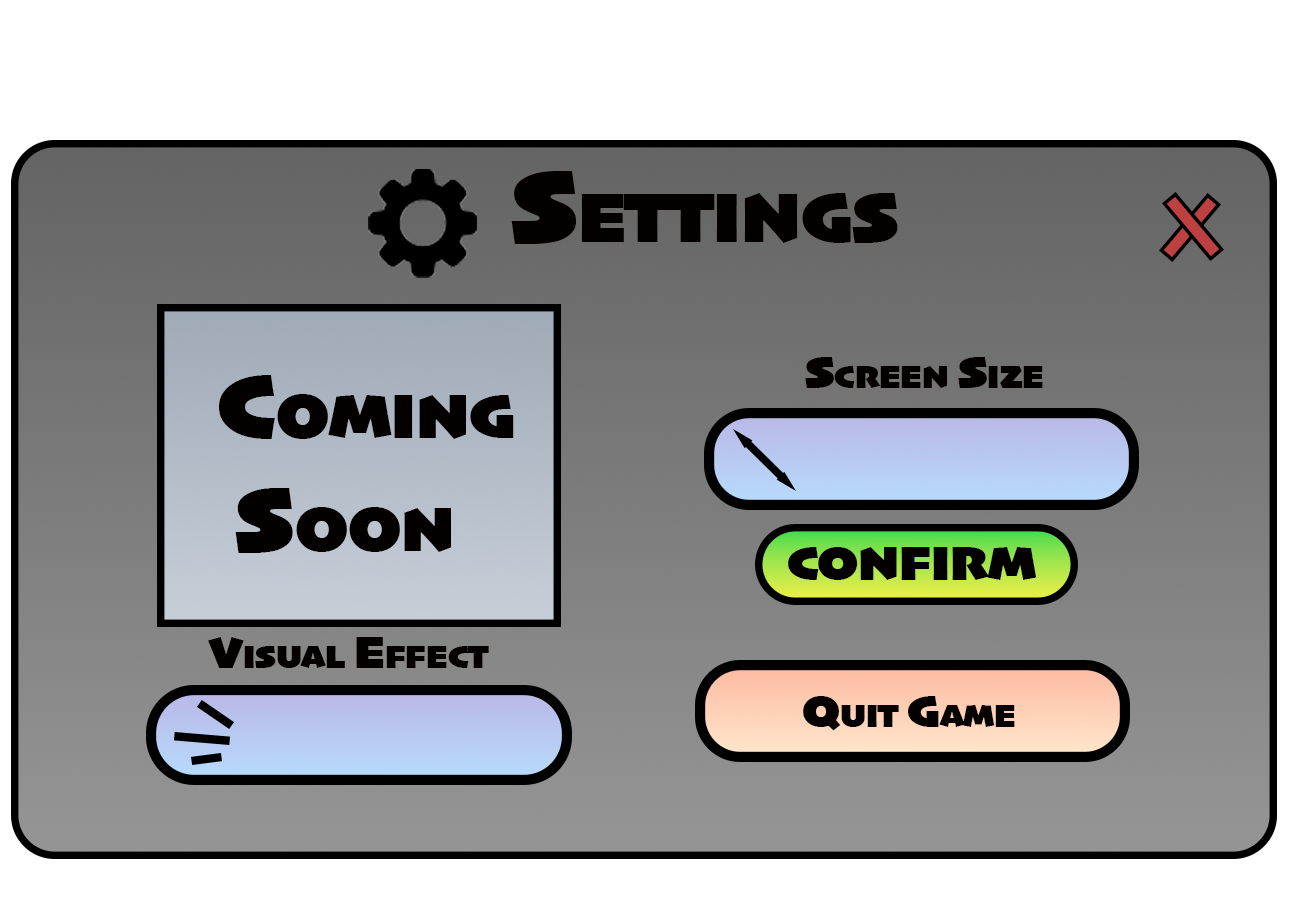
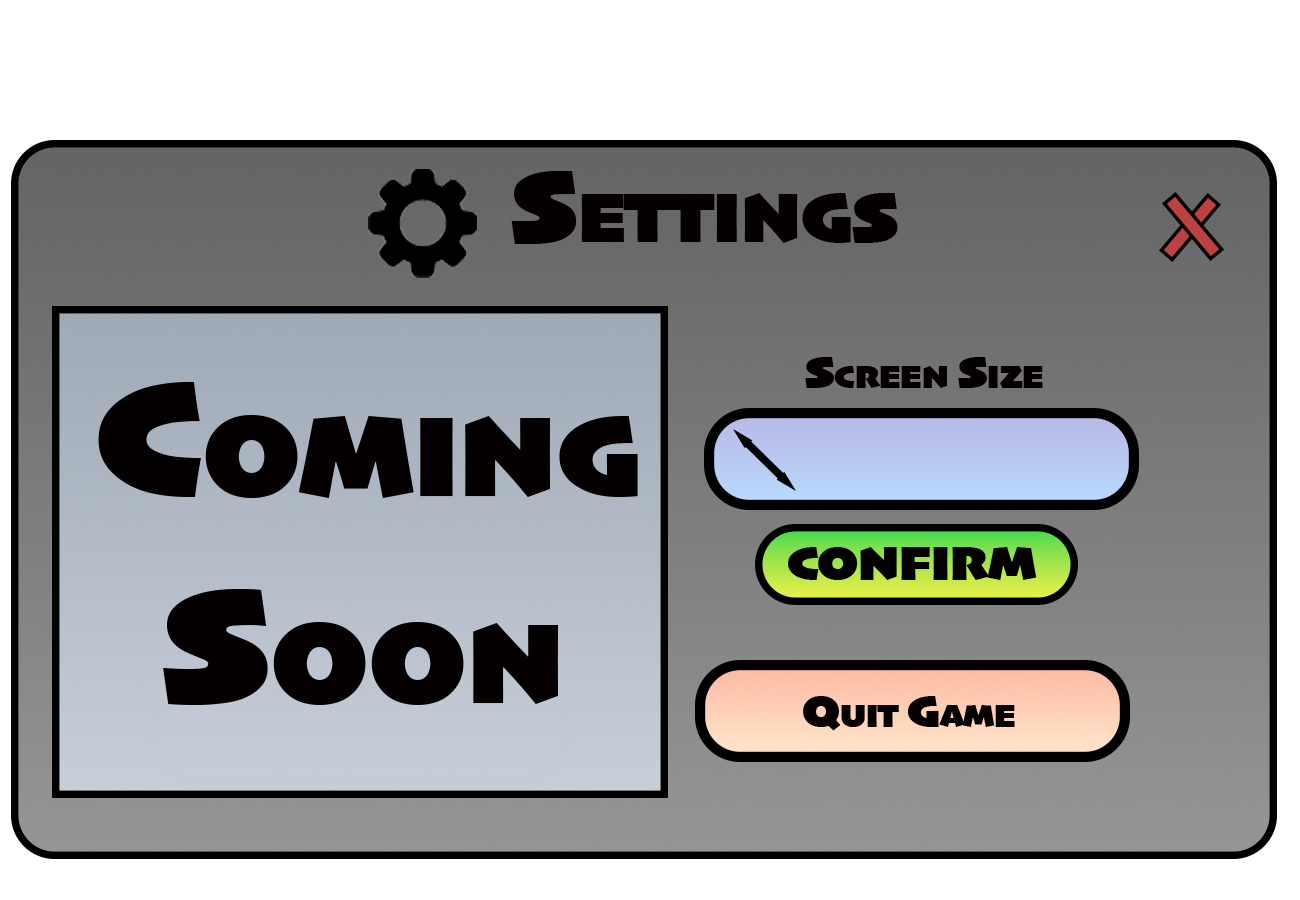
Fixed Rebirth Upgrade text missing Fixed the Clicks and Rebirths Upgrade menu to be more lined up

Changed region(s): [[0.0308, 0.3422, 0.5231, 0.9022]]

diff --git a/main.py b/main.py
@@ -206,7 +206,8 @@ CooldownLength = 0
 Tier_Click_Speed = 1
 last_time_check = 0
 dev_mult = 1.0
-ascension_Auto_Click_Speed = 0
+
+
 
 # V3.0
 current_ascension = 0
@@ -368,6 +369,7 @@ Shop_Menu_Button = pygame.image.load(os.path.join(img_dir, 'Button', "Shop_Butto
 Click_Button = pygame.image.load(os.path.join(img_dir, 'Click_Button', "Click_Button_clicked.png"))
 settings_Button = pygame.image.load(os.path.join(img_dir, 'Button', "Setting_Button.png"))
 ascension_Button = pygame.image.load(os.path.join(img_dir, 'Button', "Ascension_Button.png"))
+Shown_Menu = pygame.image.load(os.path.join(img_dir,'Menu',"Click_Upgrades.png"))
 
 click_amount = pygame.image.load(os.path.join(img_dir, 'Amount_Shown', "click_amount.png"))
 rebirth_amount = pygame.image.load(os.path.join(img_dir, 'Amount_Shown', "rebirth_amount.png"))
@@ -568,22 +570,19 @@ if len(sys.argv) > 2:
 #    Start Application
 ################################################################################
 while running:
-    # 1. Get raw physical mouse positions from the OS window
+##########################
+# For Debuger
+##########################
     physical_mouse_pos = pygame.mouse.get_pos()
-
-    # 2. Subtract offsets and divide by scale factor
     mouse_x = int((physical_mouse_pos[0] - offset_x) / scale)
     mouse_y = int((physical_mouse_pos[1] - offset_y) / scale)
-
-    # 3. FIXED: Strictly clamp the upper bounds to 1299 and 899 to avoid index crashes
     mouse_pos = (
         max(0, min(mouse_x, GAME_WIDTH - 1)),
         max(0, min(mouse_y, GAME_HEIGHT - 1))
     )
 
-    # 4. Your distance calculations will now run completely crash-free
     distance = math.hypot(mouse_pos[0] - Button_center[0], mouse_pos[1] - Button_center[1])
-
+##########################
     current_state = {
         "clicks": clicks,
         "rebirths": rebirths,
@@ -636,18 +635,27 @@ while running:
 ################################################################################
 #    Tier Upgrade Multiplers
 ################################################################################
-    if current_tier ==  1:          #    Tier Base Upgrades
+    if current_tier ==  0:          #    Tier Base Upgrades
         Tier_Xp = 1                 #    Xp Mult
-        Tier_Cm = 2  # x2           #    Clicks Multipler
+        Tier_Cm = 1                 #    Clicks Multipler
         Tier_Cp = 1                 #    CLicks Power
         Tier_Rm = 1                 #    Rebirth Mult
+        Auto_Click_Speed = 0
         Tier_Click_Speed = 1        #    Tier Click Speed Mult
+    if current_tier ==  1:
+        Tier_Xp = 1
+        Tier_Cm = 2  # x2
+        Tier_Cp = 1
+        Tier_Rm = 1
+        Auto_Click_Speed = 0
+        Tier_Click_Speed = 1
 
     if current_tier == 2:
         Tier_Xp = 1
         Tier_Cm = 4       #  x2
         Tier_Cp = 1
         Tier_Rm = 1.5     # x1.5
+        Auto_Click_Speed = 0
         Tier_Click_Speed = 1.5 # x1.5
 
     if current_tier ==  3:
@@ -833,10 +841,10 @@ while running:
 
     CM_Upgrades = (CU3Mult ** CU3) * (RU1Mult ** RU1)
     CM_Tiers = Tier_Cm * Click_Xp_Mult
-    CM_Sacrifices = Ascension_QOL_Clicks * Ascension_Click_Mult
+    CM_Ascension = Ascension_QOL_Clicks * Ascension_Click_Mult
     CM_Other = total_time_played_Click * Rebirth_x_clicks
 
-    Total_clicks_mult =  CM_Upgrades * CM_Tiers * CM_Sacrifices * CM_Other
+    Total_clicks_mult =  CM_Upgrades * CM_Tiers * CM_Ascension * CM_Other
     if Total_clicks_mult == 0:
         Total_clicks_mult = 1
     # ----------------
@@ -902,10 +910,10 @@ while running:
             RU1M = 20
             RU1Mult = 1.5
 
-    ################################################################################
-    ################################################################################
-    #    Pygame Mouse  collidepoint checker
-    ################################################################################
+################################################################################
+################################################################################
+#    Pygame Mouse  collidepoint checker
+#################################################################################
     for event in pygame.event.get():
         if event.type == pygame.VIDEORESIZE:
             if event.type == pygame.VIDEORESIZE:
@@ -954,11 +962,17 @@ while running:
                         os.execl(sys.executable, sys.executable, __file__, str(Menu), str(debugger_active))
                 elif event.key == pygame.K_i:
                     print ("[SYSTEM] Debug variable Checker:")
-                    print("Clicks: " + clicks)
-                    print("Rebirths: " + rebirths)
-                    print("Xp: " + Xp)
-                    print("Tokens: " + ascension_tokens)
-                    print("Menu: " + Menu)
+                    print("[SYSTEM] Currencies:")
+                    print("Clicks: " + str(clicks))
+                    print("Rebirths: " + str(rebirths))
+                    print("Xp: " + str(Xp))
+                    print("Tokens: " + str(ascension_tokens))
+                    print("Menu: " + str(Menu))
+                    print("[SYSTEM] Click Multiplers:")
+                    print("Upgrades: " + str(CM_Upgrades))
+                    print("Tier: " + str(CM_Tiers))
+                    print("Ascension: " + str(CM_Ascension))
+                    print("Other: " + str(CM_Other))
 
 
 
@@ -987,6 +1001,11 @@ while running:
                     if Menu == 0:
                         Menu = 52
 
+                if menu_ui_6.collidepoint(mouse_pos)  and Menu <= 9:
+                    if Menu == 6:
+                        Menu = 1
+                    elif Menu == 1:
+                        Menu = 6
                 if shop_menu.collidepoint(mouse_pos):
 
                     if Menu == 0:
@@ -1015,17 +1034,13 @@ while running:
                     current_tier += 1
 
 
-                if menu_ui_6.collidepoint(mouse_pos)  and Menu <= 9:
-                    if Menu == 6:
-                        Menu = 1
-                    if Menu == 1:
-                        Menu = 6
 
 
 
                 if menu_ui_7.collidepoint(mouse_pos) and Menu <= 9:
-                    if Menu == 1:
-                        Menu = 14
+                    if 9 <=Menu >= 1:
+                        if current_ascension >= 1:
+                            Menu = 14
 
 
 
@@ -1203,7 +1218,7 @@ while running:
         else:
             Click_Button = pygame.image.load(os.path.join(img_dir,'Click_Button',"Click_Button_clicked.png"))
 
-        if 1 >= Menu <= 10:
+        if Menu <= 10:
             menu_ui_1 = pygame.Rect(110, 340, 425, 55)
             menu_ui_2 = pygame.Rect(110, 560, 425, 55)
             menu_ui_3 = pygame.Rect(110, 780, 425, 55)
@@ -1218,7 +1233,7 @@ while running:
         if Menu in menu_base_1:
             menu_ui_1 = pygame.Rect(200, 720, 870, 100)
             menu_ui_2 = pygame.Rect(110, 250, 1100, 400)
-
+        if Menu == 1:
             CU1_Cost_Show = CU1_CostAmount(CU1, current_tier,"Suffix")
             CU2_Cost_Show = CU2_CostAmount(CU2, current_tier, "Suffix")
             CU3_Cost_Show = CU3_CostAmount(CU3, current_tier, "Suffix")
@@ -1251,40 +1266,41 @@ while running:
 
             menu_text6 = font2.render("", True, (0, 0, 0))
 
-    if Menu == 6:
-        RU1_Cost_Show = RU1_CostAmount(RU1, current_tier, "Suffix")
-        RU2_Cost_Show = RU2_CostAmount(RU2, current_tier, "Suffix")
-        RU3_Cost_Show = RU3_CostAmount(RU3, current_tier, "Suffix")
+        if Menu == 6:
+            RU1_Cost_Show = RU1_CostAmount(RU1, current_tier, "Suffix")
+            RU2_Cost_Show = RU2_CostAmount(RU2, current_tier, "Suffix")
+            RU3_Cost_Show = RU3_CostAmount(RU3, current_tier, "Suffix")
 
-        RU1_multipler = (RU1Mult ** RU1)
-        RU2_multipler = (RU2Mult ** RU2)
-        RU3_multipler = (RU3Mult ** RU3)
+            RU1_multipler = (RU1Mult ** RU1)
+            RU2_multipler = (RU2Mult ** RU2)
+            RU3_multipler = (RU3Mult ** RU3)
 
-        RU1_multipler_s = amount_sum(RU1_multipler)
-        RU2_multipler_s = amount_sum(RU2_multipler)
-        RU3_multipler_s = amount_sum(RU3_multipler)
+            RU1_multipler_s = amount_sum(RU1_multipler)
+            RU2_multipler_s = amount_sum(RU2_multipler)
+            RU3_multipler_s = amount_sum(RU3_multipler)
 
 
-        menu_text1 = font2.render("Clicks Power 2: (" + str(RU1) + "/" + str(RU1M) + ") \n x" + str(RU1_multipler_s) + " \n  Cost: " + str(RU1_Cost_Show), True, (0, 0, 0))
-        menu_text2 = font2.render("Rebirth Power (" + str(RU2) + "/" + str(RU2M) + ")\n x" + str(RU2_multipler_s) + " \n  Cost: " + str(RU2_Cost_Show), True, (0, 0, 0))
-        menu_text3 = font2.render("Extra Xp (" + str(RU3) + "/" + str(RU3M) + ")\n X" + str(RU3_multipler_s) + " \n  Cost: " + str(RU3_Cost_Show), True, (0, 0, 0))
-        menu_text4 = font2.render("Coming Later", True, (0, 0, 0))
-        menu_text5 = font2.render("Coming Later ", True, (0, 0, 0))
-        menu_text6 = font2.render("", True, (0, 0, 0))
+            menu_text1 = font2.render("Clicks Power 2: (" + str(RU1) + "/" + str(RU1M) + ") \n x" + str(RU1_multipler_s) + " \n  Cost: " + str(RU1_Cost_Show), True, (0, 0, 0))
+            menu_text2 = font2.render("Rebirth Power (" + str(RU2) + "/" + str(RU2M) + ")\n x" + str(RU2_multipler_s) + " \n  Cost: " + str(RU2_Cost_Show), True, (0, 0, 0))
+            menu_text3 = font2.render("Extra Xp (" + str(RU3) + "/" + str(RU3M) + ")\n X" + str(RU3_multipler_s) + " \n  Cost: " + str(RU3_Cost_Show), True, (0, 0, 0))
+            menu_text4 = font2.render("Coming Later", True, (0, 0, 0))
+            menu_text5 = font2.render("Coming Later ", True, (0, 0, 0))
+            menu_text6 = font2.render("", True, (0, 0, 0))
 
-    if Menu == 13:
-        test1 = ascension_cost(current_ascension,"Suffix")
-        menu_text1 = font5.render("To Ascend get:\n  " + str(test1) +" Clicks", True, (0, 0, 0))
-    if Menu == 12:
-        test = tier_cost(current_tier,"Suffix")
-        menu_text1 = font3.render((tier_info(current_tier)), True,  (0, 0, 0))
-        menu_text2 = font2.render("Cost: " + str(test) , True, (0, 0, 0))
-    if Menu == 11:
-        menu_text1 = font5.render(("If you rebirth you gain: \n \n     " + Rebirth_Gain_Show) + " Rebirths", True,  (0, 0, 0))
-    # Drawing Systems
-    canvas.blit(background, (0, 0))
-    if Menu == 0:
-        canvas.blit(Shop_Menu_Button, (420, 720))
+
+        if Menu == 13:
+            test1 = ascension_cost(current_ascension,"Suffix")
+            menu_text1 = font5.render("To Ascend get:\n  " + str(test1) +" Clicks", True, (0, 0, 0))
+        if Menu == 12:
+            test = tier_cost(current_tier,"Suffix")
+            menu_text1 = font3.render((tier_info(current_tier)), True,  (0, 0, 0))
+            menu_text2 = font2.render("Cost: " + str(test) , True, (0, 0, 0))
+        if Menu == 11:
+            menu_text1 = font5.render(("If you rebirth you gain: \n \n     " + Rebirth_Gain_Show) + " Rebirths", True,  (0, 0, 0))
+        # Drawing Systems
+        canvas.blit(background, (0, 0))
+        if Menu == 0:
+            canvas.blit(Shop_Menu_Button, (420, 720))
 
     pygame.draw.rect(canvas, green, Clicks_Amount_Box, width=0, border_radius=30)
     pygame.draw.rect(canvas, red, Rebirth_Amount_Box, width=0, border_radius=30)
@@ -1359,7 +1375,7 @@ while running:
             Shown_Menu = pygame.image.load(os.path.join(img_dir,'Menu',"Settings_Menu.png"))
             canvas.blit(Shown_Menu, (0, 0))
 
-        if 1 >= Menu <= 9 :
+        if 1 <= Menu <= 9 :
 
             Menu_text1.center = (300, 320)
             Menu_text2.center = (300, 540)
@@ -1484,11 +1500,7 @@ while running:
             menu_ui_4 = pygame.Rect(700, 405, 440, 101)
             menu_ui_5 = pygame.Rect(750, 520, 330, 90)
             menu_ui_6 = pygame.Rect(690, 660, 440, 105)
-
-        if Menu == 52:
-            Menu_text3.center = (340, 735)
             Menu_text4.center = (920, 460)
-            menu_text3 = font2.render(Visual_Effect_Switch, True, (0, 0, 0))
             menu_text4 = font2.render(Size_changer, True, (0, 0, 0))
             canvas.blit(menu_text3, Menu_text3)
             canvas.blit(menu_text4, Menu_text4)
